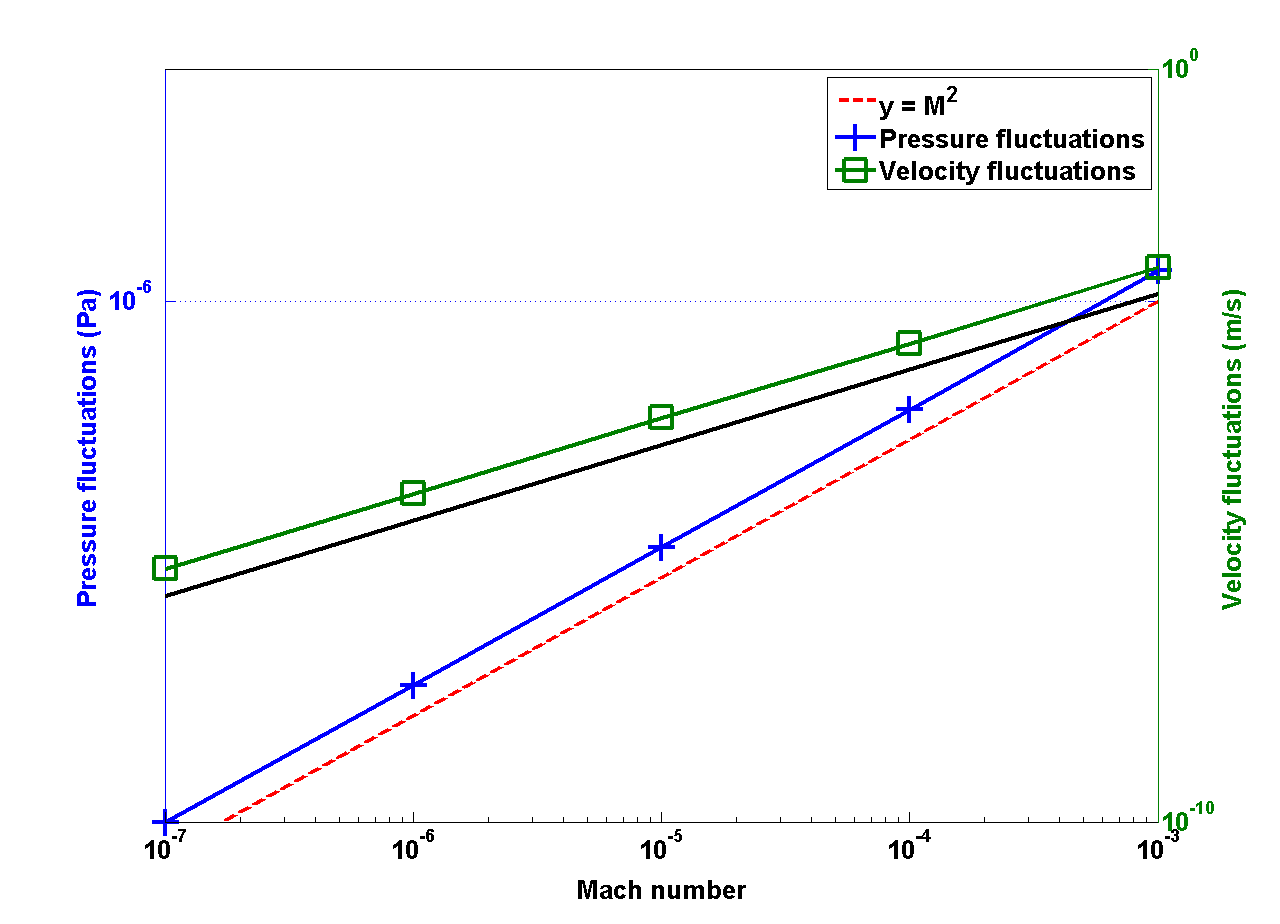
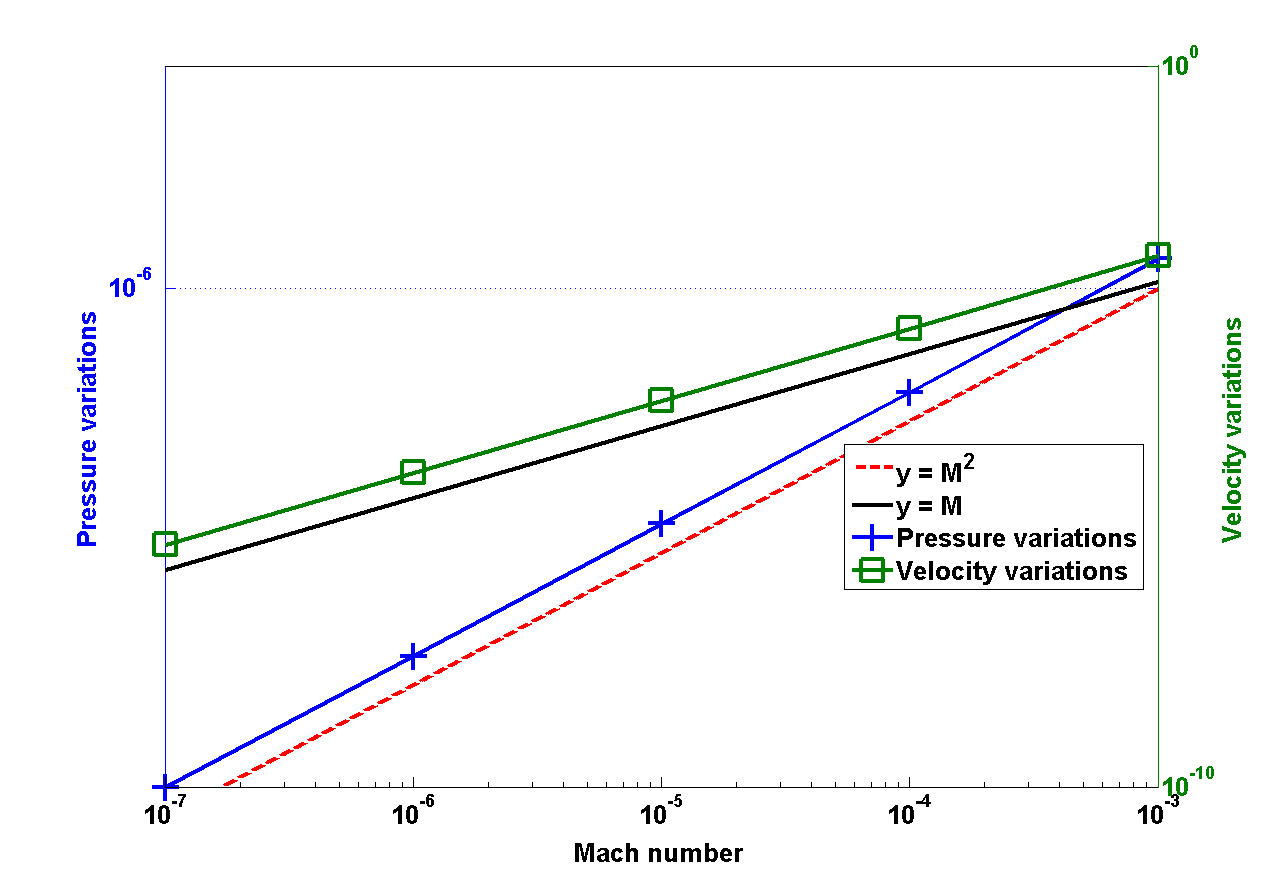
changed the plot with the pressure variations and reviewed one more time the letters to the reviewers

diff --git a/reviews/reviewer-2.tex b/reviews/reviewer-2.tex
@@ -84,7 +84,7 @@ This has been corrected. Thank you.
 \color{blue}
 2. lines 160-163: To justify the study of the low Mach regime, the authors postulate that since the residual of the entropy equation is small (the solution being smooth) then the variations of the entropy with respect to its mean value is also small, so that the denominator in (6a) vanishes. This should be discussed.}
 
-Deriving the limit of the ratio of the entropy residual to the variation of the entropy with respect to its mean value is not simple: it requires a power expansion of each term. We agree that in some cases that would have to be identified, the ratio may admit a finite limit. We opted for a different expression of the entropy residual so that we have control over the denominator which ensures the correct limit in the low-Mach asymptotic limit. 
+Deriving the limit of the ratio of the entropy residual to the variation of the entropy with respect to its mean value does not seem simple to us. It would require a power expansion of each term. We agree that in some cases that would have to be identified, the ratio may admit a finite limit. We opted for a different expression of the entropy residual so that we have control over the denominator and thus over the limit of the ratio in the low-Mach asymptotic limit. 
 \bigskip
 
 
@@ -102,7 +102,7 @@ Using the stiffened gas law, we derived $\frac{s_e}{P_e} = \frac{\gamma-1}{P+P_\
 5. The definition of the entropy viscosity is rather complex, since not only based on  the entropy residual as in the native form of the EVM but also on  the "inter-element jump" and so, in the formulation (10) proposed by the authors, on two of these jumps, for the pressure and the density. On the basis of the numerical experiments, it  would be of interest to know which of the 3 terms in the numerator of (10) is really active.  Moreover, rather than essentially repeating in (10b) the eq. (10a), it would be clearer to use the viscosity coefficient in the definition of the diffusion coefficient.
 }
 
-We modify the definition of the viscosity coefficients in (10a) and (10b). Thank you. We also added a sentence in the paper to explain when the terms involved in the definition of the viscosity coefficients become active (lines 197-199). 
+We modify the definition of the viscosity coefficients in (10a) and (10b). Thank you. We also added a sentence in the paper to explain when the terms involved in the definition of the viscosity coefficients become active (lines 197-199).
 \bigskip
 
 
@@ -120,7 +120,7 @@ When deriving the non-dimensionalized equations with the first-order viscosity c
 7. section 6.6: in this example I understand that one focuses on the steady solution. What are then the fluctuations defined in eq. 40 and shown in the graph of Fig. 7?
 }
 
-We changed the term 'fluctuation' to 'variation' to make it clearer and also modified the labels of Fig 7. We are looking at the \emph{steady-state} spatial variations of pressure for different inlet Mach numbers.
+We changed the term 'fluctuation' to 'variation' to make it clearer and also modified the labels of Fig 7. We are looking at the \emph{steady-state} spatial variations of pressure for different inlet Mach numbers using Eq. 40.
 \bigskip
 
 
